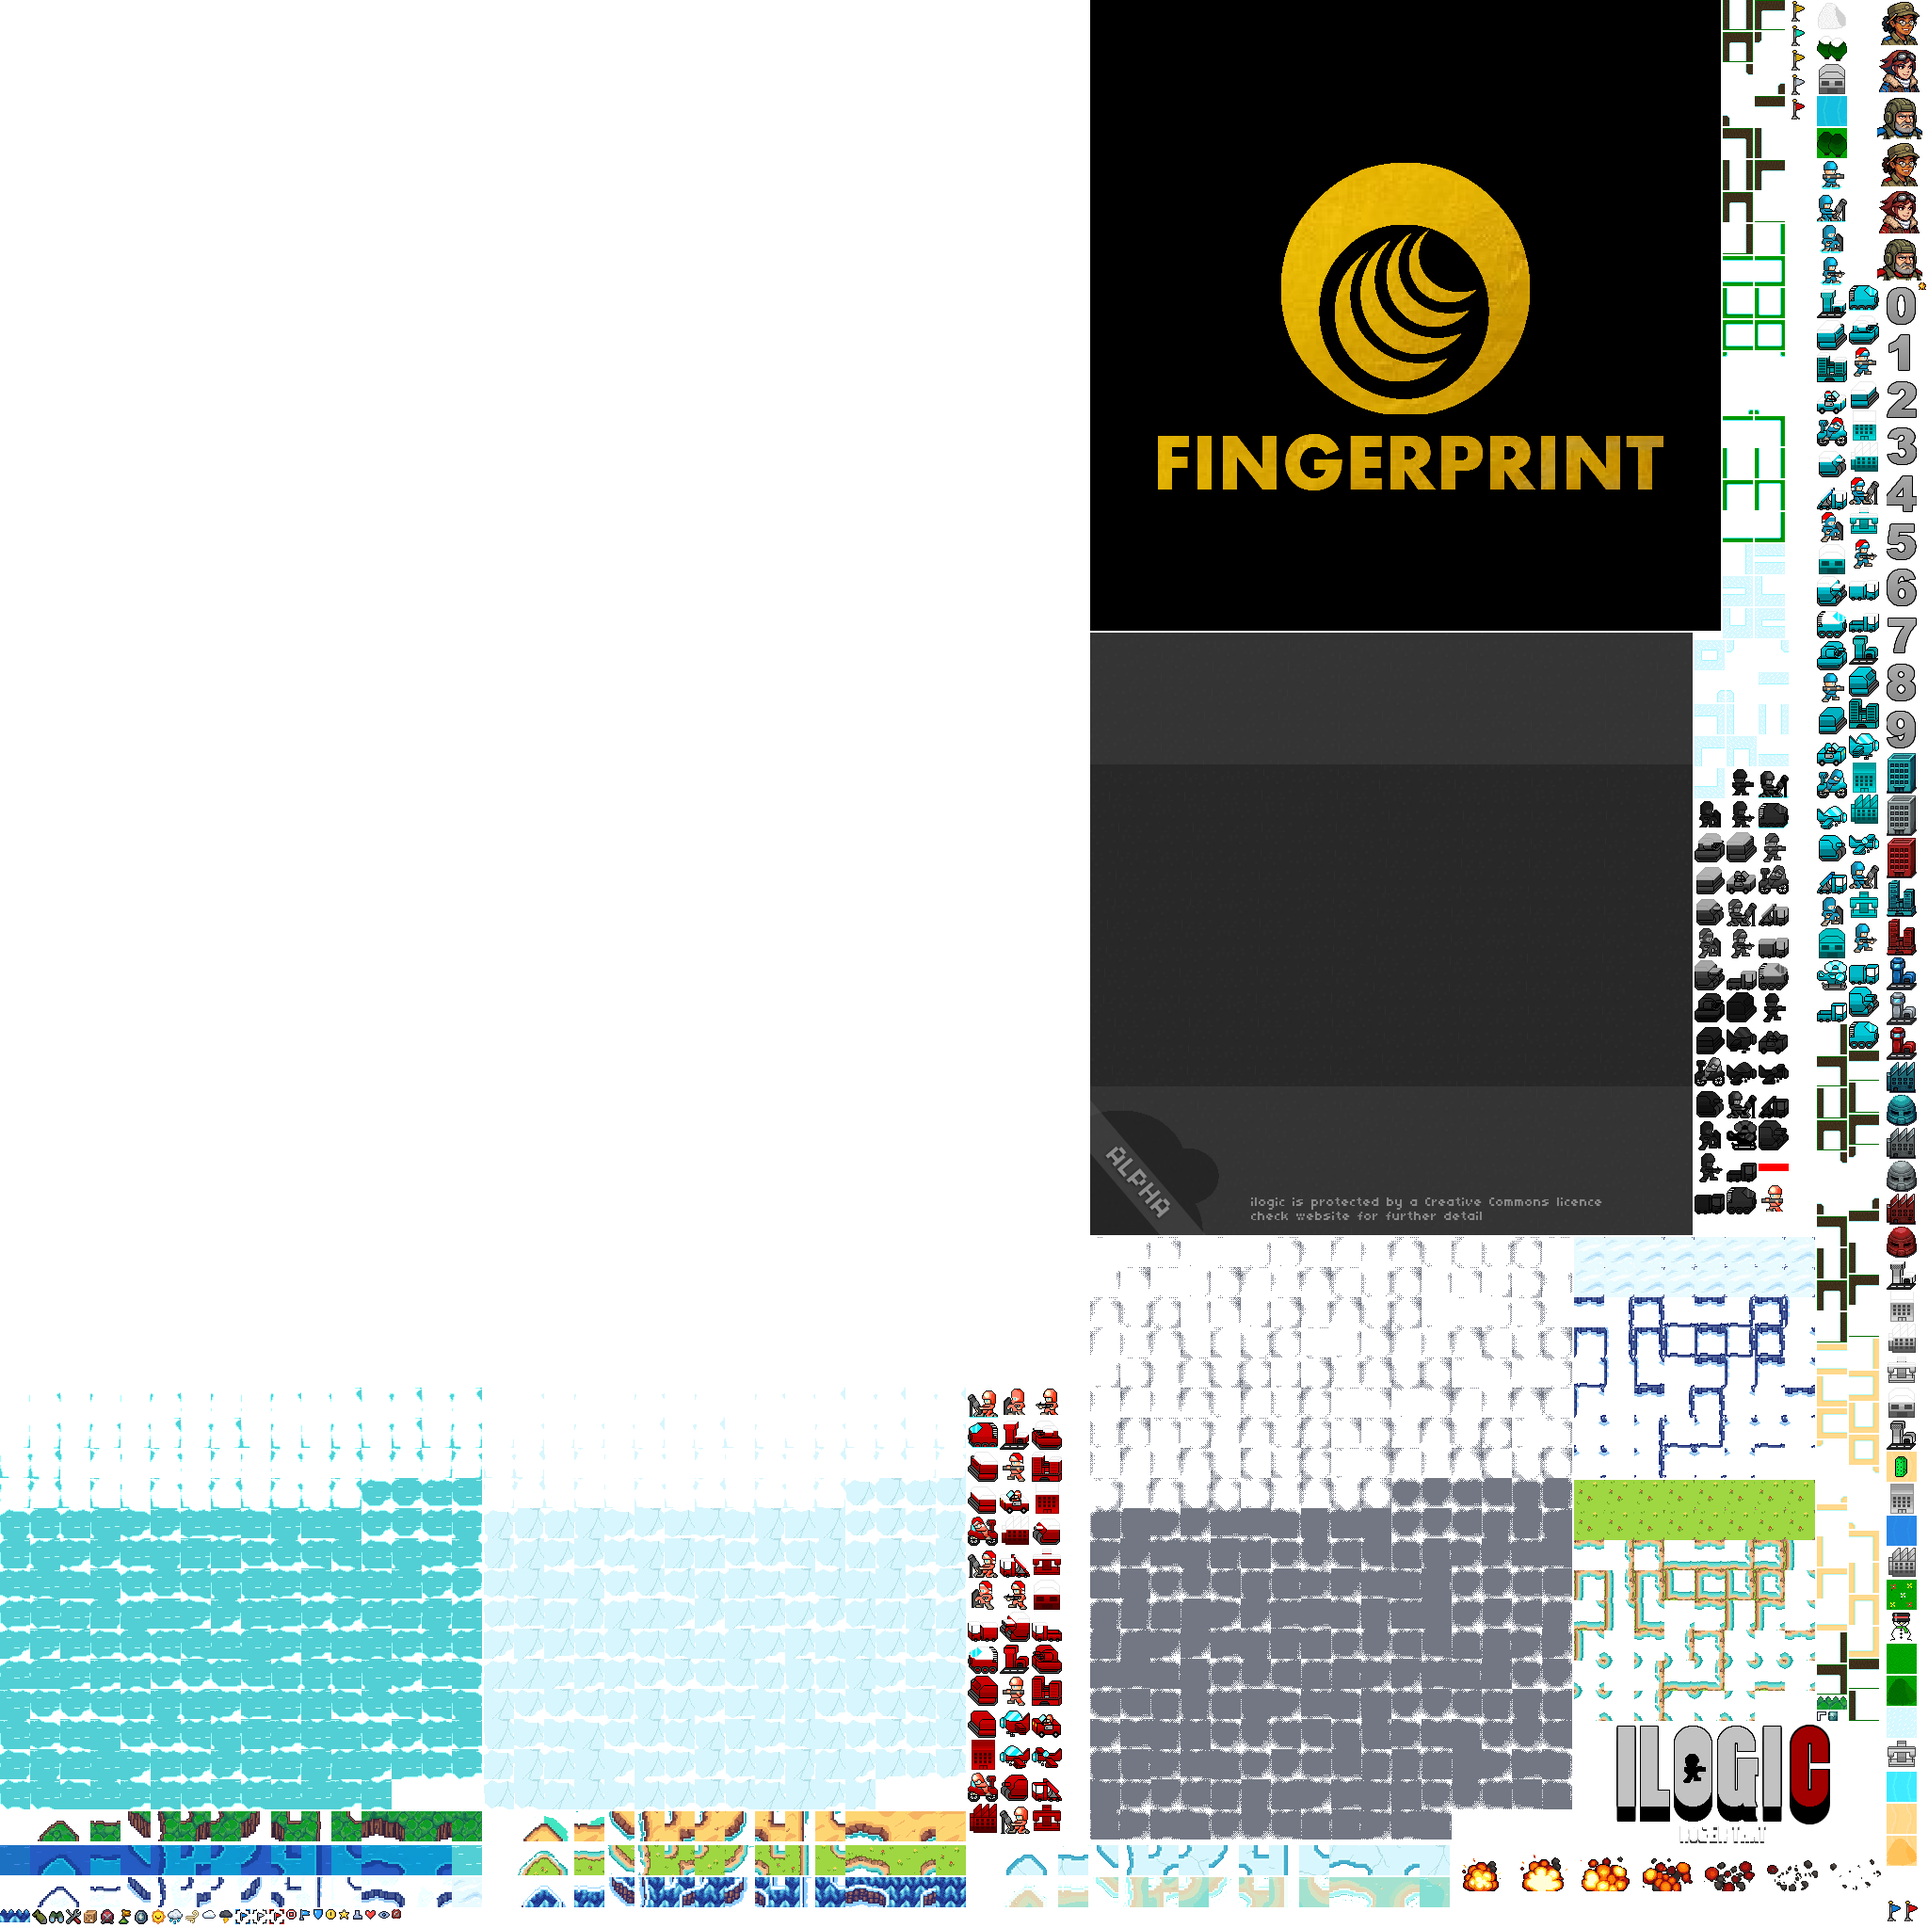
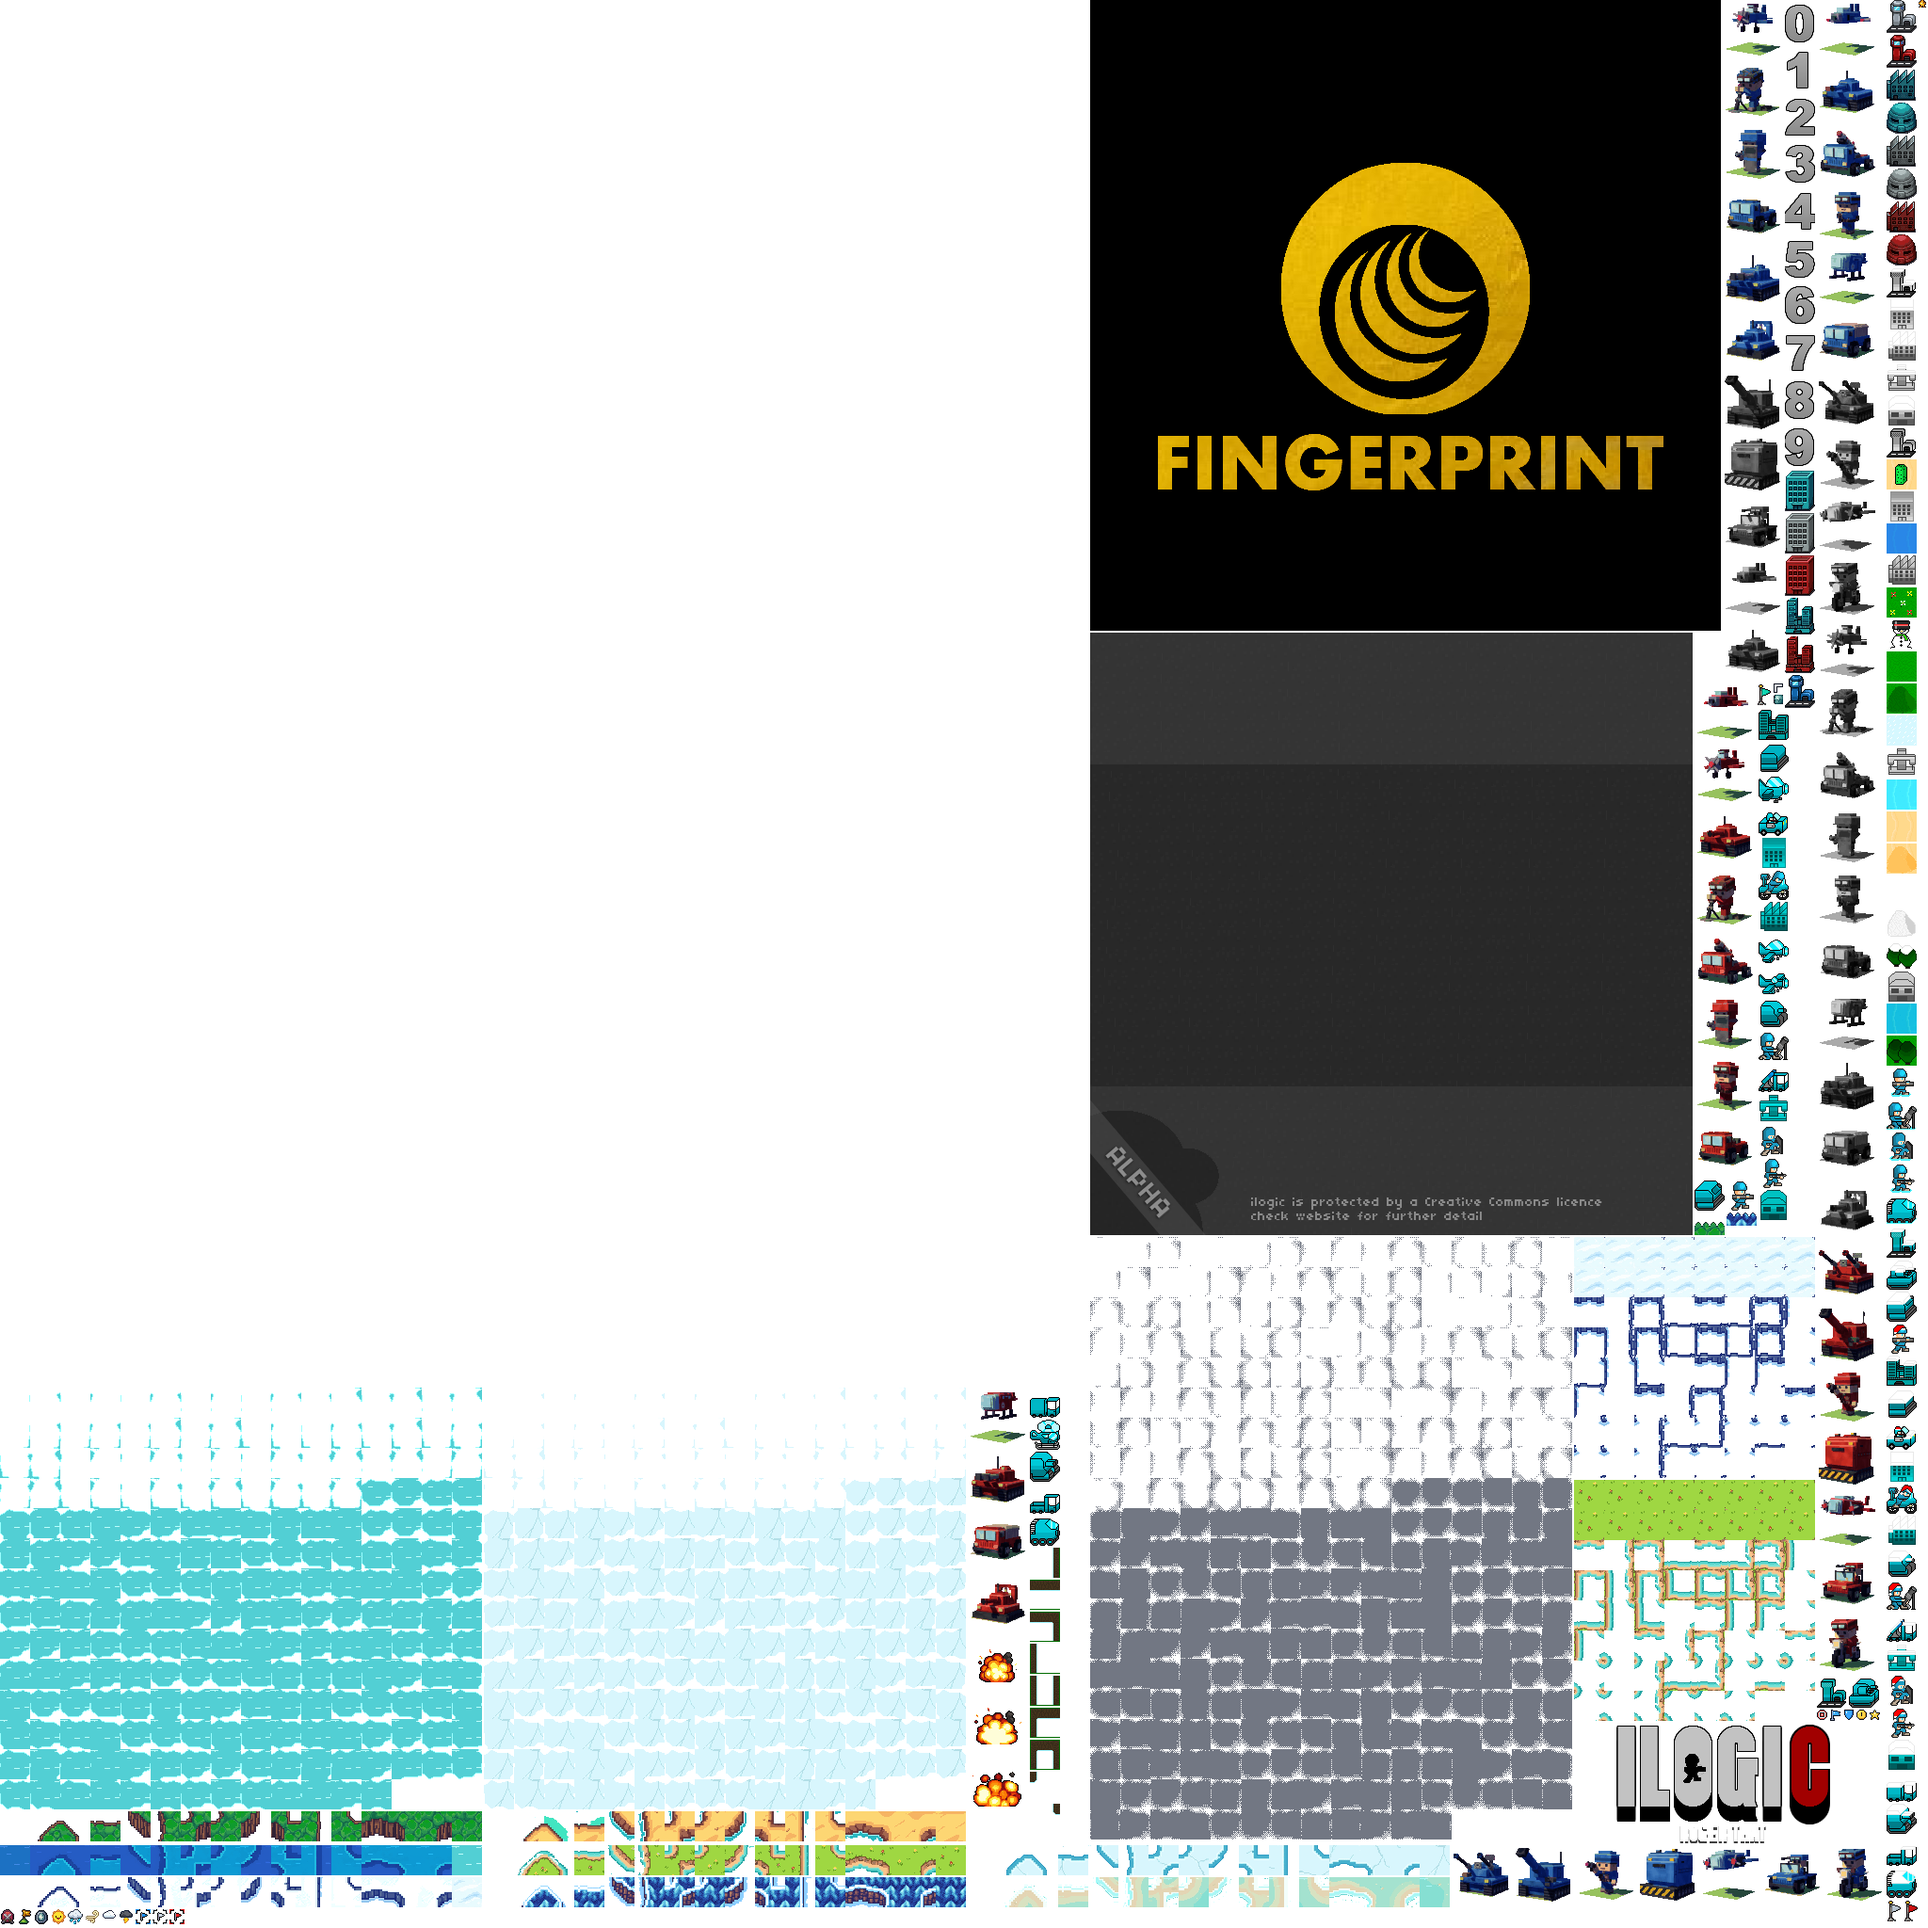
✨ Retratos de unidades desde sus modelos 3D
Los retratos de la interfaz (fichas, compra, previsión) eran los dibujos de píxel
antiguos, y ya no coinciden con lo que se ve en el tablero. Ahora cada unidad se
renderiza desde su modelo 3D (en tres cuartos, azul y rojo) y se pasa a pixel art
de 64x64: `npm run retratos` renderiza (los renders se guardan en el repo) y
`tools/art/retratos_pixel.py` genera `public/assets/img/retrato/` dentro de
`npm run assets`. El modo de arte nuevo usa esos retratos.

Changed region(s): [[0.75, 0.0, 1.0, 1.0], [0.5, 0.7188, 0.5625, 0.9688], [0.0, 0.9688, 0.0938, 1.0]]

diff --git a/src/assetList.ts b/src/assetList.ts
@@ -306,6 +306,63 @@ export const IMAGE_KEYS: readonly string[] = [
   "r_WTank",
   "raton",
   "raton_boton",
+  "retrato/b_Antiair",
+  "retrato/b_Artillery",
+  "retrato/b_BSoldier",
+  "retrato/b_Blocker",
+  "retrato/b_Bomber",
+  "retrato/b_Car",
+  "retrato/b_FSoldier",
+  "retrato/b_Fighter",
+  "retrato/b_LFighter",
+  "retrato/b_LTank",
+  "retrato/b_MSoldier",
+  "retrato/b_Missile_truck",
+  "retrato/b_SSoldier",
+  "retrato/b_Soldier",
+  "retrato/b_Supplier",
+  "retrato/b_THelicopter",
+  "retrato/b_Tank",
+  "retrato/b_Transport",
+  "retrato/b_WTank",
+  "retrato/i_Antiair",
+  "retrato/i_Artillery",
+  "retrato/i_BSoldier",
+  "retrato/i_Blocker",
+  "retrato/i_Bomber",
+  "retrato/i_Car",
+  "retrato/i_FSoldier",
+  "retrato/i_Fighter",
+  "retrato/i_LFighter",
+  "retrato/i_LTank",
+  "retrato/i_MSoldier",
+  "retrato/i_Missile_truck",
+  "retrato/i_SSoldier",
+  "retrato/i_Soldier",
+  "retrato/i_Supplier",
+  "retrato/i_THelicopter",
+  "retrato/i_Tank",
+  "retrato/i_Transport",
+  "retrato/i_WTank",
+  "retrato/r_Antiair",
+  "retrato/r_Artillery",
+  "retrato/r_BSoldier",
+  "retrato/r_Blocker",
+  "retrato/r_Bomber",
+  "retrato/r_Car",
+  "retrato/r_FSoldier",
+  "retrato/r_Fighter",
+  "retrato/r_LFighter",
+  "retrato/r_LTank",
+  "retrato/r_MSoldier",
+  "retrato/r_Missile_truck",
+  "retrato/r_SSoldier",
+  "retrato/r_Soldier",
+  "retrato/r_Supplier",
+  "retrato/r_THelicopter",
+  "retrato/r_Tank",
+  "retrato/r_Transport",
+  "retrato/r_WTank",
   "u/b_Antiair",
   "u/b_Artillery",
   "u/b_BSoldier",
@@ -363,10 +420,6 @@ export const IMAGE_KEYS: readonly string[] = [
   "u/r_Tank",
   "u/r_Transport",
   "u/r_WTank",
-  "ui/ab_airstrike",
-  "ui/ab_recon",
-  "ui/ab_repair",
-  "ui/ab_supplies",
   "ui/alcance",
   "ui/anim_boom_0",
   "ui/anim_boom_1",
@@ -389,12 +442,6 @@ export const IMAGE_KEYS: readonly string[] = [
   "ui/flag_cmd_go",
   "ui/flag_i",
   "ui/flag_r",
-  "ui/gen_b_Ambar",
-  "ui/gen_b_Brisa",
-  "ui/gen_b_Roca",
-  "ui/gen_r_Ambar",
-  "ui/gen_r_Brisa",
-  "ui/gen_r_Roca",
   "ui/mando",
   "ui/mk_cargo",
   "ui/mk_noheal",

diff --git a/src/ui/sprites.ts b/src/ui/sprites.ts
@@ -49,14 +49,14 @@ export function unitKey(textures: GameImages, s: GameState, unit: Unit, viewer: 
   const unitType = unitTypeOf(s, unit);
   const terrain = unitType.classicSprite[terrainAt(s, drawnAt).id] ?? '';
   const name = unitType.art;
-  // Dibujo nuevo (carpeta u/), si esta elegido y existe.
-  if (settings.terrainArt === 'new' && hasImage(textures, `u/${side}${name}`)) return `u/${side}${name}`;
+  // Retrato nuevo (carpeta retrato/, de los modelos 3D), si esta elegido y existe.
+  if (settings.terrainArt === 'new' && hasImage(textures, `retrato/${side}${name}`)) return `retrato/${side}${name}`;
   return firstExisting(textures, [side + terrain + name, side + name, `${unitSideLetter(unitSide, true)}_${name}`]);
 }
 
 export function unitIconKey(unitType: UnitType, available: boolean): string {
   const key = (available ? 'b_' : 'i_') + unitType.art;
-  return settings.terrainArt === 'new' ? `u/${key}` : key;
+  return settings.terrainArt === 'new' ? `retrato/${key}` : key;
 }
 
 export function buildingKey(textures: GameImages, s: GameState, building: Building, visible: boolean, viewer: TeamId): string | null {

diff --git a/src/view3d/playground/main.ts b/src/view3d/playground/main.ts
@@ -155,4 +155,4 @@ show({});
 world.start();
 
 // Para mirar y probar desde la consola (y los agentes).
-(window as unknown as { ilogicPlayground: object }).ilogicPlayground = { world, stage, choice, time, reload };
+(window as unknown as { ilogicPlayground: object }).ilogicPlayground = { world, stage, choice, time, reload, catalog };

diff --git a/tools/art/retratos_pixel.py b/tools/art/retratos_pixel.py
@@ -1,0 +1,90 @@
+"""Retratos de las unidades para la interfaz: pixel art de 64x64 a partir de sus renders 3D.
+
+Entrada: tools/art/retratos/3d/<lado>_<Unidad>.png (los hace tools/art/retratos3d.mjs, sobre magenta).
+Salida, en public/assets/img/retrato/:
+  b_<Unidad>.png  la propia (azul), r_<Unidad>.png  la enemiga (roja),
+  i_<Unidad>.png  la propia ya ha actuado (gris).
+Se quita el fondo magenta, se recorta a la unidad, se reduce a 64 pixeles y se cuantiza a una paleta
+pequena sin difuminar, con borde duro (alfa 0 o 255). No llama a ningun servicio.
+
+    python3 tools/art/retratos_pixel.py
+"""
+
+from __future__ import annotations
+
+import glob
+import os
+
+import numpy as np
+from PIL import Image, ImageOps
+
+ROOT = os.path.dirname(os.path.abspath(__file__))
+SRC = os.path.join(ROOT, "retratos", "3d")
+OUT = os.path.normpath(os.path.join(ROOT, "..", "..", "public", "assets", "img", "retrato"))
+SIZE = 64  # lado del retrato final, en pixeles
+COLORS = 40  # colores de la paleta de cada retrato
+MAGENTA = np.array([255, 0, 255])
+KEY_TOLERANCE = 90  # distancia (suma de canales) para considerar el fondo magenta
+
+
+def cut_out(render: Image.Image) -> Image.Image:
+    """La unidad sobre transparente: lo parecido al magenta del fondo, fuera."""
+    rgb = np.array(render.convert("RGB")).astype(int)
+    background = np.abs(rgb - MAGENTA).sum(-1) < KEY_TOLERANCE
+    rgba = np.dstack([rgb.astype(np.uint8), np.where(background, 0, 255).astype(np.uint8)])
+    return Image.fromarray(rgba, "RGBA")
+
+
+def fit(unit: Image.Image) -> Image.Image:
+    """Recorta a la caja de la unidad y la pone centrada en un lienzo de SIZE x SIZE."""
+    box = unit.getbbox()
+    if box is None:
+        raise SystemExit("render vacio: no se ve la unidad")
+    unit = unit.crop(box)
+    scale = (SIZE - 4) / max(unit.width, unit.height)
+    small = unit.resize((max(1, round(unit.width * scale)), max(1, round(unit.height * scale))), Image.Resampling.BOX)
+    canvas = Image.new("RGBA", (SIZE, SIZE), (0, 0, 0, 0))
+    canvas.paste(small, ((SIZE - small.width) // 2, (SIZE - small.height) // 2))
+    return canvas
+
+
+def pixelate(art: Image.Image) -> Image.Image:
+    """Paleta pequena sin difuminar y borde duro."""
+    alpha = art.getchannel("A").point(lambda value: 255 if value >= 128 else 0)
+    quantized = art.convert("RGB").quantize(colors=COLORS, dither=Image.Dither.NONE).convert("RGBA")
+    quantized.putalpha(alpha)
+    return quantized
+
+
+def grey(art: Image.Image) -> Image.Image:
+    """La version gris de la propia (ya ha actuado), como los iconos de antes."""
+    alpha = art.getchannel("A")
+    grey_art = ImageOps.grayscale(art.convert("RGB")).convert("RGBA")
+    grey_art.putalpha(alpha)
+    return grey_art
+
+
+def portrait(render_path: str) -> Image.Image:
+    return pixelate(fit(cut_out(Image.open(render_path))))
+
+
+def main() -> None:
+    os.makedirs(OUT, exist_ok=True)
+    own = sorted(glob.glob(os.path.join(SRC, "own_*.png")))
+    if not own:
+        raise SystemExit(f"No hay renders en {SRC}: ejecutar `npm run retratos`.")
+    for path in own:
+        name = os.path.basename(path)[len("own_") : -len(".png")]
+        blue = portrait(path)
+        blue.save(os.path.join(OUT, f"b_{name}.png"))
+        grey(blue).save(os.path.join(OUT, f"i_{name}.png"))
+        enemy = os.path.join(SRC, f"enemy_{name}.png")
+        if not os.path.exists(enemy):
+            raise SystemExit(f"Falta el render enemigo de {name}")
+        portrait(enemy).save(os.path.join(OUT, f"r_{name}.png"))
+        print(name)
+    print(f"{len(own)} retratos en {OUT}")
+
+
+if __name__ == "__main__":
+    main()

diff --git a/README.md b/README.md
@@ -212,7 +212,10 @@ Los graficos se compilan antes de jugar, no mientras se juega. Hay dos clases:
 - **Modelos 3D** (unidades, edificios, casillas y decorado del tablero): se hacen con Ashfox a partir
   de `tools/art/ashfox/` y se guardan ya exportados en `public/assets/models/` (`.glb`). Ver la skill
   `ashfox`. Un tipo sin GLB se ve con un modelo de bloques (`src/view3d/models/`).
-- **Imagenes de la interfaz** (retratos, iconos, fichas, miniaturas de mapa): `npm run assets`
+- **Retratos de unidades**: `npm run retratos` renderiza cada modelo 3D (en el playground, sobre magenta) a
+  `tools/art/retratos/3d/` (se guarda en el repo); `tools/art/retratos_pixel.py` lo pasa a pixel art de 64x64 en
+  `public/assets/img/retrato/` (`b_` azul, `r_` rojo, `i_` gris). Ese paso lo hace `npm run assets`.
+- **Imagenes de la interfaz** (iconos, fichas, miniaturas de mapa): `npm run assets`
   (necesita Python 3 con lo de `tools/art/requirements.txt`) ejecuta en orden los scripts de `tools/art/`:
 
 1. edificios y unidades con sus colores de bando
@@ -221,7 +224,7 @@ Los graficos se compilan antes de jugar, no mientras se juega. Hay dos clases:
    `ui/dinero`...) y la letra pixel del logo (`tools/art/font/ilogic.txt` → `src/hud/fonts/ilogic.woff2`; la de la interfaz,
    Fredoka y Nunito, ya viene hecha en `src/hud/fonts/`),
    las dos dibujadas como rejillas de pixeles en texto: se retocan editando el `.txt`;
-   retratos, habilidades, clima y banderin; los iconos de la app (pestaña, PWA y pantalla de inicio)
+   retratos, habilidades, clima y banderin (los retratos de unidades salen de sus modelos 3D: ver abajo); los iconos de la app (pestaña, PWA y pantalla de inicio)
    a partir del Soldado azul nuevo (`tools/art/build_app_icons.py` → `public/icons`);
 3. la lista de imagenes (`src/assetList.ts`) y el atlas (`public/assets/atlas`: 2 paginas colocadas con MaxRects y
    comprimidas sin perdida con oxipng);

diff --git a/docs/ESTETICA.md b/docs/ESTETICA.md
@@ -218,6 +218,9 @@ y estado: `docs/PLAN-INTERFAZ.md`.
 - **Letras**: Fredoka (redonda, para títulos, botones y cifras) y Nunito (texto). La letra píxel de
   2013 queda para el logo.
 - **Iconos**: los de píxel que ya hay, nítidos (`image-rendering: pixelated`), dentro de las fichas.
+- **Retratos de unidades**: no son dibujos, son el propio modelo 3D renderizado en tres cuartos y pasado a
+  pixel art de 64x64 (`npm run retratos` y `tools/art/retratos_pixel.py`). Así la ficha y el tablero
+  muestran lo mismo; si cambia un modelo, hay que volver a renderizarlo.
 - **Poca cosa en pantalla**: solo cuatro piezas fijas, el dinero (su desglose al pasar el ratón), el
   día con su clima, el menú y «Fin del turno» con su número de unidades sin mover (que lleva a la
   siguiente). Nada de bandejas ni líneas de ayuda: lo demás sale junto a lo que se toca y cuando hace
